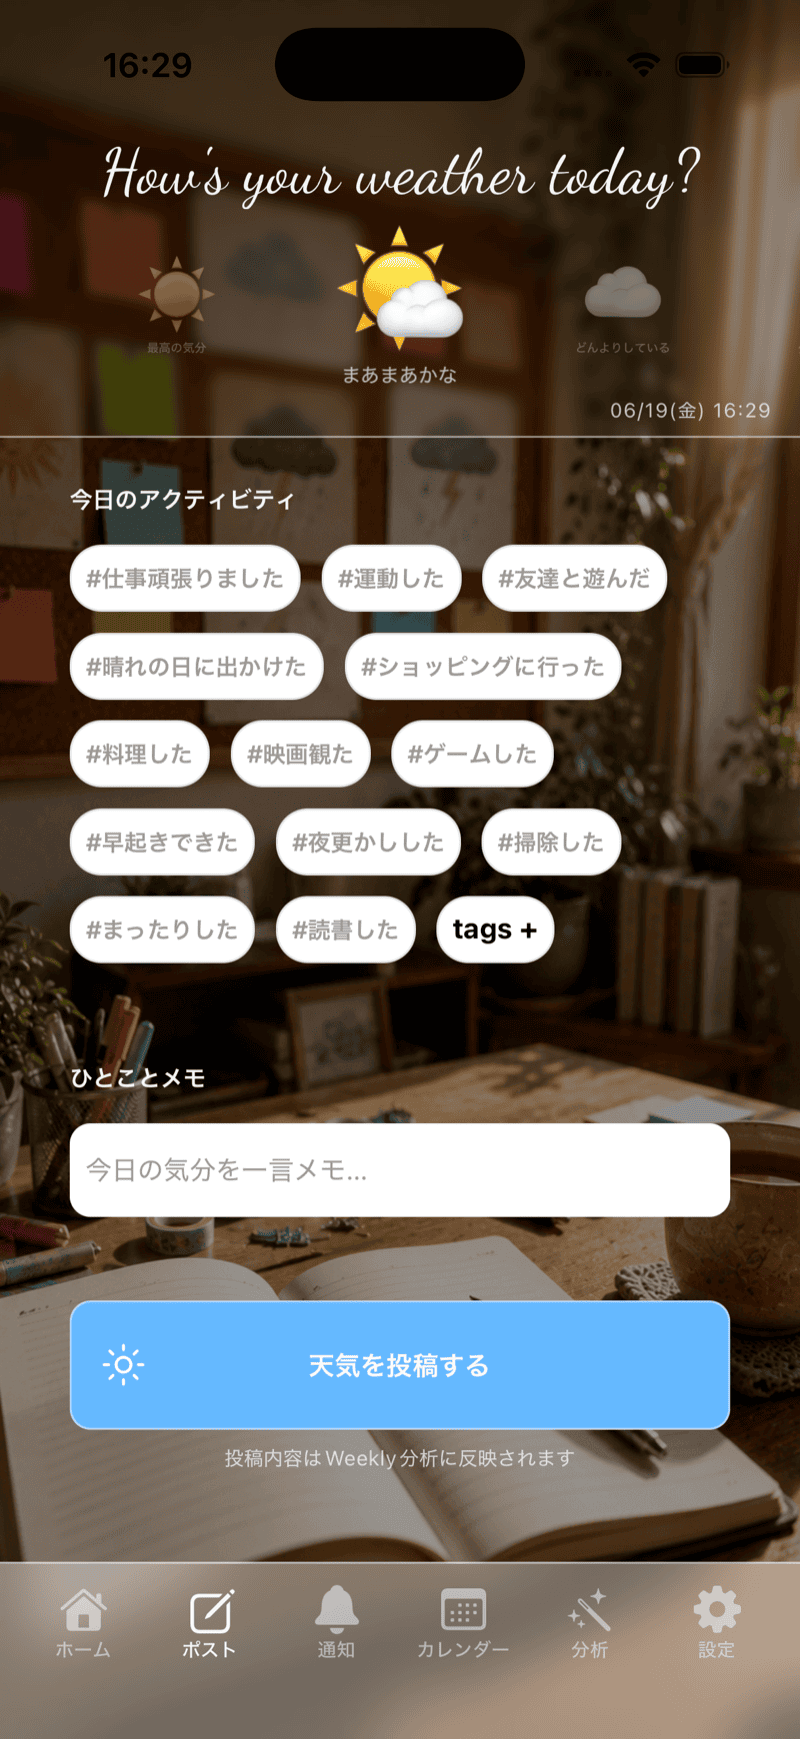
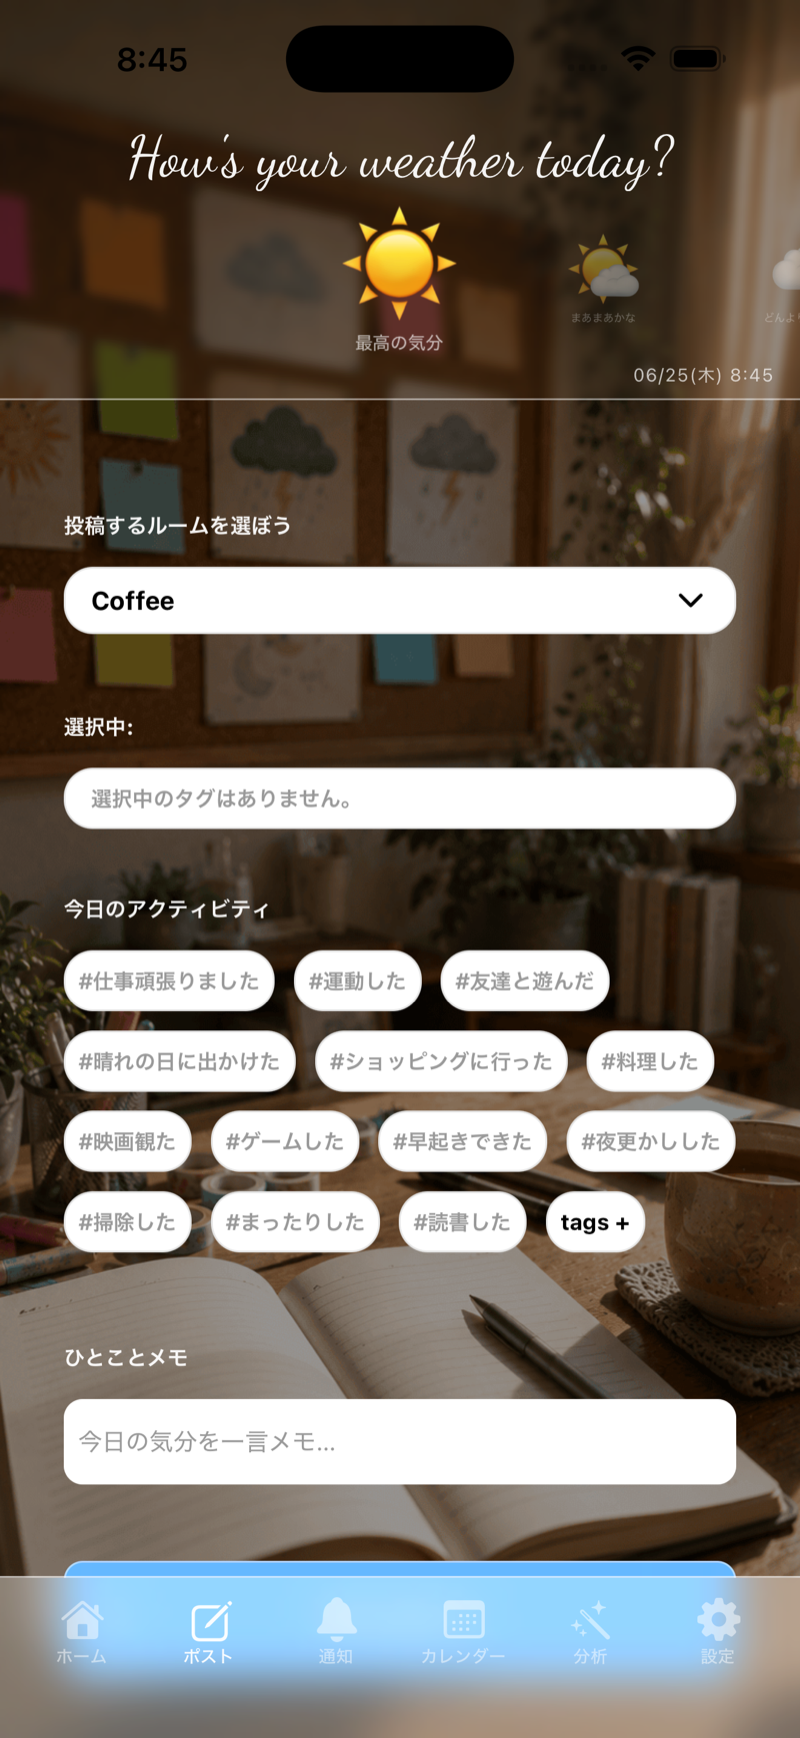
feat: Edge FunctionにZodバリデーションを追加し、README/スクリーンショットを更新
- analyze-weather: Claude APIの返答形式をZodで検証
- send-push-notification: リクエストボディ（to_user_id/from_user_id/type）をZodで検証
- 各Edge Functionのdeno.jsonにzod・supabase-jsをbare specifierとして登録
- VSCodeのDeno設定にdeno.pathを追加
- 投稿・コメント画面のキーボード回避のスクリーンショットを追加

diff --git a/app/(tabs)/index.tsx b/app/(tabs)/index.tsx
@@ -143,8 +143,7 @@ const fetchActivityFeed = async (roomId: string | null, setter: (data: ActivityF
   setter(formattedData);
 };
 
-const hasActivityFeedProfiles = (item: ActivityFeedItem): item is ActivityFeedItem & { from: NonNullable<ActivityFeedItem['from']>; to: NonNullable<ActivityFeedItem['to']> } =>
-  item.from !== null && item.to !== null;
+const hasActivityFeedProfiles = (item: ActivityFeedItem): item is ActivityFeedItem & { from: NonNullable<ActivityFeedItem['from']>; to: NonNullable<ActivityFeedItem['to']> } => item.from !== null && item.to !== null;
 
 const fetchRoomMember = async (roomId: string, userId: string, setter: (data: RoomMember[]) => void) => {
   if (!roomId) return;
@@ -455,7 +454,9 @@ export default function HomeScreen() {
                         <Text className="text-sm font-semibold" style={{ color: WeatherBoardColors.textPrimary }} numberOfLines={1}>
                           {truncateName(item.nickname, 8)}
                         </Text>
-                        <Text className="text-[6px] font-semibold" style={{ color: WeatherBoardColors.textPrimary }}>{isCurrentUser ? '←YOU' : ''}</Text>
+                        <Text className="text-[6px] font-semibold" style={{ color: WeatherBoardColors.textPrimary }}>
+                          {isCurrentUser ? '←YOU' : ''}
+                        </Text>
                       </View>
                     );
                   })}

diff --git a/supabase/functions/analyze-weather/index.ts b/supabase/functions/analyze-weather/index.ts
@@ -1,5 +1,14 @@
 import "@supabase/functions-js/edge-runtime.d.ts";
-import { createClient } from "https://esm.sh/@supabase/supabase-js@2";
+import { createClient } from "@supabase/supabase-js";
+import { z } from "zod";
+
+const ClaudeResponseSchema = z.object({
+  content: z.array(
+    z.object({
+      text: z.string(),
+    }),
+  ),
+});
 
 Deno.serve(async (req) => {
   const supabaseClient = createClient(
@@ -123,10 +132,20 @@ Deno.serve(async (req) => {
     });
   }
   const claudeData = await claudeResponse.json();
+  const parsed = ClaudeResponseSchema.safeParse(claudeData);
+  if (!parsed.success) {
+    console.error(
+      "[analyze-weather] unexpected Claude response shape",
+      parsed.error.message,
+    );
+    return new Response("Claude APIの返答形式が想定と異なります。", {
+      status: 500,
+    });
+  }
   const { error: analysedError } = await supabaseClient.from("ai_analyses")
     .insert({
       "user_id": user_id,
-      "content": claudeData.content[0].text,
+      "content": parsed.data.content[0].text,
       "type": "weekly",
     });
   if (analysedError) {
@@ -135,7 +154,7 @@ Deno.serve(async (req) => {
   }
 
   return new Response(
-    JSON.stringify(claudeData),
+    JSON.stringify(parsed.data),
     { headers: { "Content-Type": "application/json" } },
   );
 });

diff --git a/supabase/functions/send-push-notification/index.ts b/supabase/functions/send-push-notification/index.ts
@@ -1,9 +1,22 @@
 import "@supabase/functions-js/edge-runtime.d.ts";
-import { createClient } from "https://esm.sh/@supabase/supabase-js@2";
+import { createClient } from "@supabase/supabase-js";
+import { z } from "zod";
+
+const NotificationPayloadSchema = z.object({
+  to_user_id: z.string().uuid(),
+  from_user_id: z.string().uuid(),
+  type: z.enum(['comment', 'talk'])
+})
 
 // notificationsのINSERTをトリガーにDBから呼ばれるEdge Function
 Deno.serve(async (req) => {
-  const { to_user_id, from_user_id, type } = await req.json();
+  const body = await req.json();
+  const parsed = NotificationPayloadSchema.safeParse(body);
+  if(!parsed.success){
+    console.error("[send-push-notification] invalid request body", parsed.error.message);
+    return new Response("リクエストの形式が正しくありません。", { status: 400 });
+  }
+  const { to_user_id, from_user_id, type } = parsed.data;
   // サービスロールキーで初期化（RLS無視）
   const supabaseClient = createClient(
     Deno.env.get("SUPABASE_URL")!,

diff --git a/README.md b/README.md
@@ -26,19 +26,26 @@ Weather Boardは気軽に、正直に共有できる。
 - 投稿の天気に応じて付箋の色や背景が変わるビジュアル表現
 - アクティビティフィードでメンバー全員の最新投稿をすぐ確認できる
 - 投稿にコメントを残したり、「ちょっと話したい」通知を送れる
-- 通知はアプリ内・プッシュ通知の両方で受け取れる
-- 絵文字でアバターを作成してプロフィールをカスタマイズ
 - ルームを作成・参加して、グループを分けて管理（上限なし）
-- ルームメンバーの一覧確認・招待コードのコピー・ルームからの退出が可能
-- 投稿にアクティビティタグを付けて記録
-- 1週間分の投稿をもとに AI が分析・アドバイスを生成
+- 投稿にアクティビティタグを付けて記録・削除も可能
 - ヒストリーカレンダーで1ヶ月分の天気ログを振り返り
-- メール/パスワード・Google・Apple でログイン
-- 登録前に利用規約（EULA）への同意が必要
-- 不適切な投稿・コメント・ユーザーを通報できる
-- 迷惑なユーザーをブロックでき、ブロック相手の投稿・コメント・タグは表示されなくなる
+
+## こだわったところ
+
+- メール/パスワード・Google・Apple の3方式でログイン可能
+- 登録前に利用規約（EULA）への同意を必須化
+- 不適切な投稿・コメント・ユーザーを通報できる仕組み
+- 迷惑なユーザーをブロックでき、ブロック相手の投稿・コメント・タグを即時非表示
 - 自分の投稿・コメントを削除できる
 - 設定からアカウントを削除でき、関連データも完全に削除される
+- 1週間分の投稿をもとにAIが分析・アドバイスを生成
+- 投稿・コメント入力時、iOS/Android両方でキーボードに入力欄が隠れないよう自動調整
+- ニックネームなどの文字数制限、長いテキストの省略表示・折り返しなど、表示崩れを防ぐUI対応
+- iOS・Android両方の実機で動作確認済み
+
+## テストについて
+
+複雑な計算ロジックが少ないため、Jestによるユニットテストは導入していません。代わりに、日付の境界が絡む処理（AI分析の週次実行制限、ヒストリーカレンダーの月切り替えなど）は、実機の日付を変更してSupabase上のデータと合わせて動作確認を行っています。
 
 ## スクリーンショット
 
@@ -61,6 +68,10 @@ Weather Boardは気軽に、正直に共有できる。
 | EULA | 設定 | アカウント設定 |
 |---|---|---|
 | ![EULA](screenshots/eula.png) | ![設定](screenshots/settings.png) | ![アカウント設定](screenshots/account-settings.png) |
+
+| 投稿画面のキーボード回避 | コメント画面のキーボード回避 |
+|---|---|
+| ![投稿画面のキーボード回避](screenshots/post-test-input.png) | ![コメント画面のキーボード回避](screenshots/comments-test-input.png) |
 
 | 通報・ブロックメニュー |
 |---|
